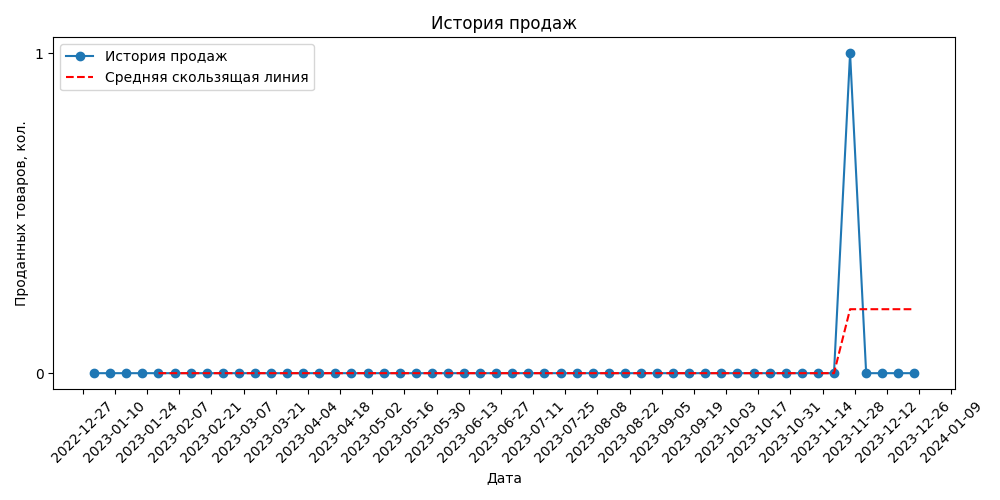
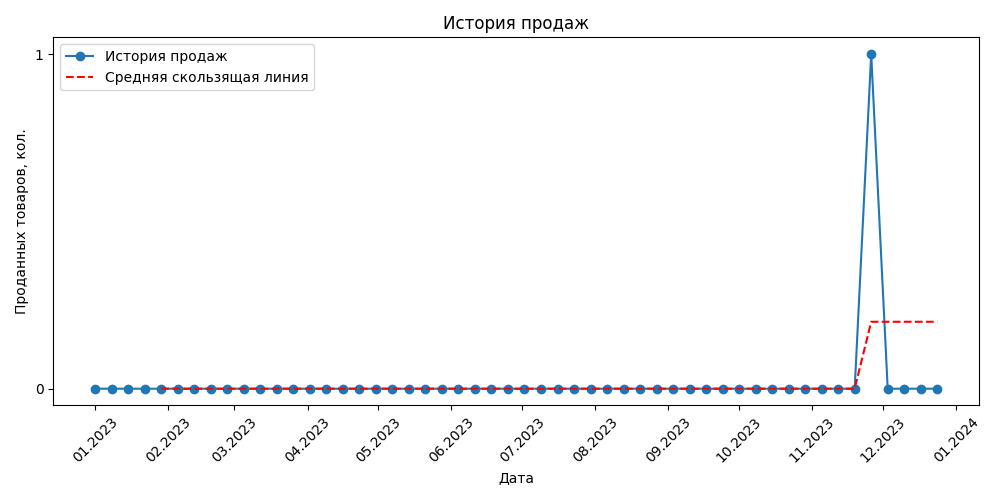
fix

Changed region(s): [[0.031, 0.09, 0.992, 0.99], [0.0, 0.24, 0.031, 0.63], [0.434, 0.03, 0.589, 0.06]]

diff --git a/graph/draw_graph.py b/graph/draw_graph.py
@@ -24,6 +24,7 @@ class DrawOdoo(AuthOdoo):
         super().__init__()
 
     def get_data_for_graphs(self) -> dict:
+        return {"6737--2023": [{"week": 1, "qty": 0, "revenue": 0}, {"week": 2, "qty": 1, "revenue": 562.91}, {"week": 3, "qty": 0, "revenue": 0}, {"week": 4, "qty": 0, "revenue": 0}, {"week": 5, "qty": 0, "revenue": 0}, {"week": 6, "qty": 0, "revenue": 0}, {"week": 7, "qty": 0, "revenue": 0}, {"week": 8, "qty": 0, "revenue": 0}, {"week": 9, "qty": 0, "revenue": 0}, {"week": 10, "qty": 0, "revenue": 0}, {"week": 11, "qty": 0, "revenue": 0}, {"week": 12, "qty": 0, "revenue": 0}, {"week": 13, "qty": 0, "revenue": 0}, {"week": 14, "qty": 0, "revenue": 0}, {"week": 15, "qty": 0, "revenue": 0}, {"week": 16, "qty": 0, "revenue": 0}, {"week": 17, "qty": 0, "revenue": 0}, {"week": 18, "qty": 0, "revenue": 0}, {"week": 19, "qty": 0, "revenue": 0}, {"week": 20, "qty": 0, "revenue": 0}, {"week": 21, "qty": 0, "revenue": 0}, {"week": 22, "qty": 0, "revenue": 0}, {"week": 23, "qty": 0, "revenue": 0}, {"week": 24, "qty": 0, "revenue": 0}, {"week": 25, "qty": 0, "revenue": 0}, {"week": 26, "qty": 0, "revenue": 0}, {"week": 27, "qty": 0, "revenue": 0}, {"week": 28, "qty": 0, "revenue": 0}, {"week": 29, "qty": 0, "revenue": 0}, {"week": 30, "qty": 0, "revenue": 0}, {"week": 31, "qty": 0, "revenue": 0}, {"week": 32, "qty": 0, "revenue": 0}, {"week": 33, "qty": 0, "revenue": 0}, {"week": 34, "qty": 0, "revenue": 0}, {"week": 35, "qty": 0, "revenue": 0}, {"week": 36, "qty": 0, "revenue": 0}, {"week": 37, "qty": 0, "revenue": 0}, {"week": 38, "qty": 0, "revenue": 0}, {"week": 39, "qty": 0, "revenue": 0}, {"week": 40, "qty": 0, "revenue": 0}, {"week": 41, "qty": 0, "revenue": 0}, {"week": 42, "qty": 0, "revenue": 0}, {"week": 43, "qty": 0, "revenue": 0}, {"week": 44, "qty": 0, "revenue": 0}, {"week": 45, "qty": 0, "revenue": 0}, {"week": 46, "qty": 0, "revenue": 0}, {"week": 47, "qty": 0, "revenue": 0}, {"week": 48, "qty": 0, "revenue": 0}, {"week": 49, "qty": 0, "revenue": 0}, {"week": 50, "qty": 0, "revenue": 0}, {"week": 51, "qty": 0, "revenue": 0}, {"week": 52, "qty": 0, "revenue": 0}], "14987--2023": [{"week": 1, "qty": 2, "revenue": 2673.8599999999997}, {"week": 2, "qty": 2, "revenue": 2670.1800000000003}, {"week": 3, "qty": 0, "revenue": 0}, {"week": 4, "qty": 0, "revenue": 0}, {"week": 5, "qty": 0, "revenue": 0}, {"week": 6, "qty": 0, "revenue": 0}, {"week": 7, "qty": 0, "revenue": 0}, {"week": 8, "qty": 0, "revenue": 0}, {"week": 9, "qty": 0, "revenue": 0}, {"week": 10, "qty": 0, "revenue": 0}, {"week": 11, "qty": 0, "revenue": 0}, {"week": 12, "qty": 0, "revenue": 0}, {"week": 13, "qty": 0, "revenue": 0}, {"week": 14, "qty": 0, "revenue": 0}, {"week": 15, "qty": 0, "revenue": 0}, {"week": 16, "qty": 0, "revenue": 0}, {"week": 17, "qty": 0, "revenue": 0}, {"week": 18, "qty": 0, "revenue": 0}, {"week": 19, "qty": 0, "revenue": 0}, {"week": 20, "qty": 0, "revenue": 0}, {"week": 21, "qty": 0, "revenue": 0}, {"week": 22, "qty": 0, "revenue": 0}, {"week": 23, "qty": 0, "revenue": 0}, {"week": 24, "qty": 0, "revenue": 0}, {"week": 25, "qty": 0, "revenue": 0}, {"week": 26, "qty": 0, "revenue": 0}, {"week": 27, "qty": 0, "revenue": 0}, {"week": 28, "qty": 0, "revenue": 0}, {"week": 29, "qty": 0, "revenue": 0}, {"week": 30, "qty": 0, "revenue": 0}, {"week": 31, "qty": 0, "revenue": 0}, {"week": 32, "qty": 0, "revenue": 0}, {"week": 33, "qty": 0, "revenue": 0}, {"week": 34, "qty": 0, "revenue": 0}, {"week": 35, "qty": 0, "revenue": 0}, {"week": 36, "qty": 0, "revenue": 0}, {"week": 37, "qty": 0, "revenue": 0}, {"week": 38, "qty": 0, "revenue": 0}, {"week": 39, "qty": 0, "revenue": 0}, {"week": 40, "qty": 0, "revenue": 0}, {"week": 41, "qty": 0, "revenue": 0}, {"week": 42, "qty": 0, "revenue": 0}, {"week": 43, "qty": 0, "revenue": 0}, {"week": 44, "qty": 0, "revenue": 0}, {"week": 45, "qty": 0, "revenue": 0}, {"week": 46, "qty": 0, "revenue": 0}, {"week": 47, "qty": 0, "revenue": 0}, {"week": 48, "qty": 1, "revenue": 1341.62}, {"week": 49, "qty": 0, "revenue": 0}, {"week": 50, "qty": 4, "revenue": 5399.74}, {"week": 51, "qty": 2, "revenue": 2709.66}, {"week": 52, "qty": 5, "revenue": 6734.39}], "4--2023": [{"week": 1, "qty": 0, "revenue": 0}, {"week": 2, "qty": 0, "revenue": 0}, {"week": 3, "qty": 0, "revenue": 0}, {"week": 4, "qty": 0, "revenue": 0}, {"week": 5, "qty": 0, "revenue": 0}, {"week": 6, "qty": 0, "revenue": 0}, {"week": 7, "qty": 0, "revenue": 0}, {"week": 8, "qty": 0, "revenue": 0}, {"week": 9, "qty": 0, "revenue": 0}, {"week": 10, "qty": 0, "revenue": 0}, {"week": 11, "qty": 0, "revenue": 0}, {"week": 12, "qty": 0, "revenue": 0}, {"week": 13, "qty": 0, "revenue": 0}, {"week": 14, "qty": 0, "revenue": 0}, {"week": 15, "qty": 0, "revenue": 0}, {"week": 16, "qty": 0, "revenue": 0}, {"week": 17, "qty": 0, "revenue": 0}, {"week": 18, "qty": 0, "revenue": 0}, {"week": 19, "qty": 0, "revenue": 0}, {"week": 20, "qty": 0, "revenue": 0}, {"week": 21, "qty": 0, "revenue": 0}, {"week": 22, "qty": 0, "revenue": 0}, {"week": 23, "qty": 0, "revenue": 0}, {"week": 24, "qty": 0, "revenue": 0}, {"week": 25, "qty": 0, "revenue": 0}, {"week": 26, "qty": 0, "revenue": 0}, {"week": 27, "qty": 0, "revenue": 0}, {"week": 28, "qty": 0, "revenue": 0}, {"week": 29, "qty": 0, "revenue": 0}, {"week": 30, "qty": 0, "revenue": 0}, {"week": 31, "qty": 0, "revenue": 0}, {"week": 32, "qty": 0, "revenue": 0}, {"week": 33, "qty": 0, "revenue": 0}, {"week": 34, "qty": 0, "revenue": 0}, {"week": 35, "qty": 0, "revenue": 0}, {"week": 36, "qty": 0, "revenue": 0}, {"week": 37, "qty": 0, "revenue": 0}, {"week": 38, "qty": 0, "revenue": 0}, {"week": 39, "qty": 0, "revenue": 0}, {"week": 40, "qty": 0, "revenue": 0}, {"week": 41, "qty": 0, "revenue": 0}, {"week": 42, "qty": 0, "revenue": 0}, {"week": 43, "qty": 0, "revenue": 0}, {"week": 44, "qty": 0, "revenue": 0}, {"week": 45, "qty": 0, "revenue": 0}, {"week": 46, "qty": 0, "revenue": 0}, {"week": 47, "qty": 0, "revenue": 0}, {"week": 48, "qty": 1, "revenue": 78.63}, {"week": 49, "qty": 0, "revenue": 0}, {"week": 50, "qty": 0, "revenue": 0}, {"week": 51, "qty": 0, "revenue": 0}, {"week": 52, "qty": 0, "revenue": 0}], "6730--2023": [{"week": 1, "qty": 0, "revenue": 0}, {"week": 2, "qty": 0, "revenue": 0}, {"week": 3, "qty": 0, "revenue": 0}, {"week": 4, "qty": 0, "revenue": 0}, {"week": 5, "qty": 0, "revenue": 0}, {"week": 6, "qty": 0, "revenue": 0}, {"week": 7, "qty": 0, "revenue": 0}, {"week": 8, "qty": 0, "revenue": 0}, {"week": 9, "qty": 0, "revenue": 0}, {"week": 10, "qty": 0, "revenue": 0}, {"week": 11, "qty": 0, "revenue": 0}, {"week": 12, "qty": 0, "revenue": 0}, {"week": 13, "qty": 0, "revenue": 0}, {"week": 14, "qty": 0, "revenue": 0}, {"week": 15, "qty": 0, "revenue": 0}, {"week": 16, "qty": 0, "revenue": 0}, {"week": 17, "qty": 0, "revenue": 0}, {"week": 18, "qty": 1, "revenue": 523.99}, {"week": 19, "qty": 0, "revenue": 0}, {"week": 20, "qty": 0, "revenue": 0}, {"week": 21, "qty": 0, "revenue": 0}, {"week": 22, "qty": 0, "revenue": 0}, {"week": 23, "qty": 0, "revenue": 0}, {"week": 24, "qty": 0, "revenue": 0}, {"week": 25, "qty": 0, "revenue": 0}, {"week": 26, "qty": 0, "revenue": 0}, {"week": 27, "qty": 0, "revenue": 0}, {"week": 28, "qty": 0, "revenue": 0}, {"week": 29, "qty": 0, "revenue": 0}, {"week": 30, "qty": 0, "revenue": 0}, {"week": 31, "qty": 0, "revenue": 0}, {"week": 32, "qty": 0, "revenue": 0}, {"week": 33, "qty": 0, "revenue": 0}, {"week": 34, "qty": 0, "revenue": 0}, {"week": 35, "qty": 0, "revenue": 0}, {"week": 36, "qty": 0, "revenue": 0}, {"week": 37, "qty": 0, "revenue": 0}, {"week": 38, "qty": 0, "revenue": 0}, {"week": 39, "qty": 0, "revenue": 0}, {"week": 40, "qty": 0, "revenue": 0}, {"week": 41, "qty": 0, "revenue": 0}, {"week": 42, "qty": 0, "revenue": 0}, {"week": 43, "qty": 0, "revenue": 0}, {"week": 44, "qty": 0, "revenue": 0}, {"week": 45, "qty": 0, "revenue": 0}, {"week": 46, "qty": 0, "revenue": 0}, {"week": 47, "qty": 0, "revenue": 0}, {"week": 48, "qty": 0, "revenue": 0}, {"week": 49, "qty": 0, "revenue": 0}, {"week": 50, "qty": 0, "revenue": 0}, {"week": 51, "qty": 0, "revenue": 0}, {"week": 52, "qty": 0, "revenue": 0}], "6730--2022": [{"week": 1, "qty": 0, "revenue": 0}, {"week": 2, "qty": 0, "revenue": 0}, {"week": 3, "qty": 0, "revenue": 0}, {"week": 4, "qty": 0, "revenue": 0}, {"week": 5, "qty": 0, "revenue": 0}, {"week": 6, "qty": 0, "revenue": 0}, {"week": 7, "qty": 0, "revenue": 0}, {"week": 8, "qty": 0, "revenue": 0}, {"week": 9, "qty": 0, "revenue": 0}, {"week": 10, "qty": 0, "revenue": 0}, {"week": 11, "qty": 0, "revenue": 0}, {"week": 12, "qty": 0, "revenue": 0}, {"week": 13, "qty": 0, "revenue": 0}, {"week": 14, "qty": 0, "revenue": 0}, {"week": 15, "qty": 0, "revenue": 0}, {"week": 16, "qty": 0, "revenue": 0}, {"week": 17, "qty": 0, "revenue": 0}, {"week": 18, "qty": 0, "revenue": 0}, {"week": 19, "qty": 0, "revenue": 0}, {"week": 20, "qty": 0, "revenue": 0}, {"week": 21, "qty": 1, "revenue": 877.0}, {"week": 22, "qty": 0, "revenue": 0}, {"week": 23, "qty": 0, "revenue": 0}, {"week": 24, "qty": 0, "revenue": 0}, {"week": 25, "qty": 0, "revenue": 0}, {"week": 26, "qty": 0, "revenue": 0}, {"week": 27, "qty": 0, "revenue": 0}, {"week": 28, "qty": 0, "revenue": 0}, {"week": 29, "qty": 0, "revenue": 0}, {"week": 30, "qty": 0, "revenue": 0}, {"week": 31, "qty": 0, "revenue": 0}, {"week": 32, "qty": 0, "revenue": 0}, {"week": 33, "qty": 0, "revenue": 0}, {"week": 34, "qty": 0, "revenue": 0}, {"week": 35, "qty": 0, "revenue": 0}, {"week": 36, "qty": 0, "revenue": 0}, {"week": 37, "qty": 0, "revenue": 0}, {"week": 38, "qty": 0, "revenue": 0}, {"week": 39, "qty": 0, "revenue": 0}, {"week": 40, "qty": 0, "revenue": 0}, {"week": 41, "qty": 0, "revenue": 0}, {"week": 42, "qty": 0, "revenue": 0}, {"week": 43, "qty": 0, "revenue": 0}, {"week": 44, "qty": 0, "revenue": 0}, {"week": 45, "qty": 0, "revenue": 0}, {"week": 46, "qty": 0, "revenue": 0}, {"week": 47, "qty": 0, "revenue": 0}, {"week": 48, "qty": 0, "revenue": 0}, {"week": 49, "qty": 0, "revenue": 0}, {"week": 50, "qty": 0, "revenue": 0}, {"week": 51, "qty": 0, "revenue": 0}, {"week": 52, "qty": 0, "revenue": 0}]}
         path = "api/v1/get-data-for-draw-graphs"
         endpoint = f"{self.url}{path}"
         headers = self.connect_to_odoo_api_with_auth()
@@ -65,12 +66,13 @@ class DrawOdoo(AuthOdoo):
 
             plt.xticks(rotation=45)
             plt.gca().xaxis.set_major_locator(mdates.MonthLocator())
-            plt.gca().xaxis.set_major_formatter(mdates.DateFormatter('%Y-%m'))
+            plt.gca().xaxis.set_major_formatter(mdates.DateFormatter('%m.%Y'))
 
             plt.yticks(np.arange(min(qty), max(qty) + 1, step=1))
 
             plt.tight_layout()
-            plt.savefig(f'/home/sammy/static/images/odoo/{product_id}.png')
+            plt.savefig(f'../static/images/odoo/{product_id}.png')
+            # plt.savefig(f'/home/sammy/static/images/odoo/{product_id}.png')
 
     def main(self) -> None:
         data = self.get_data_for_graphs()
